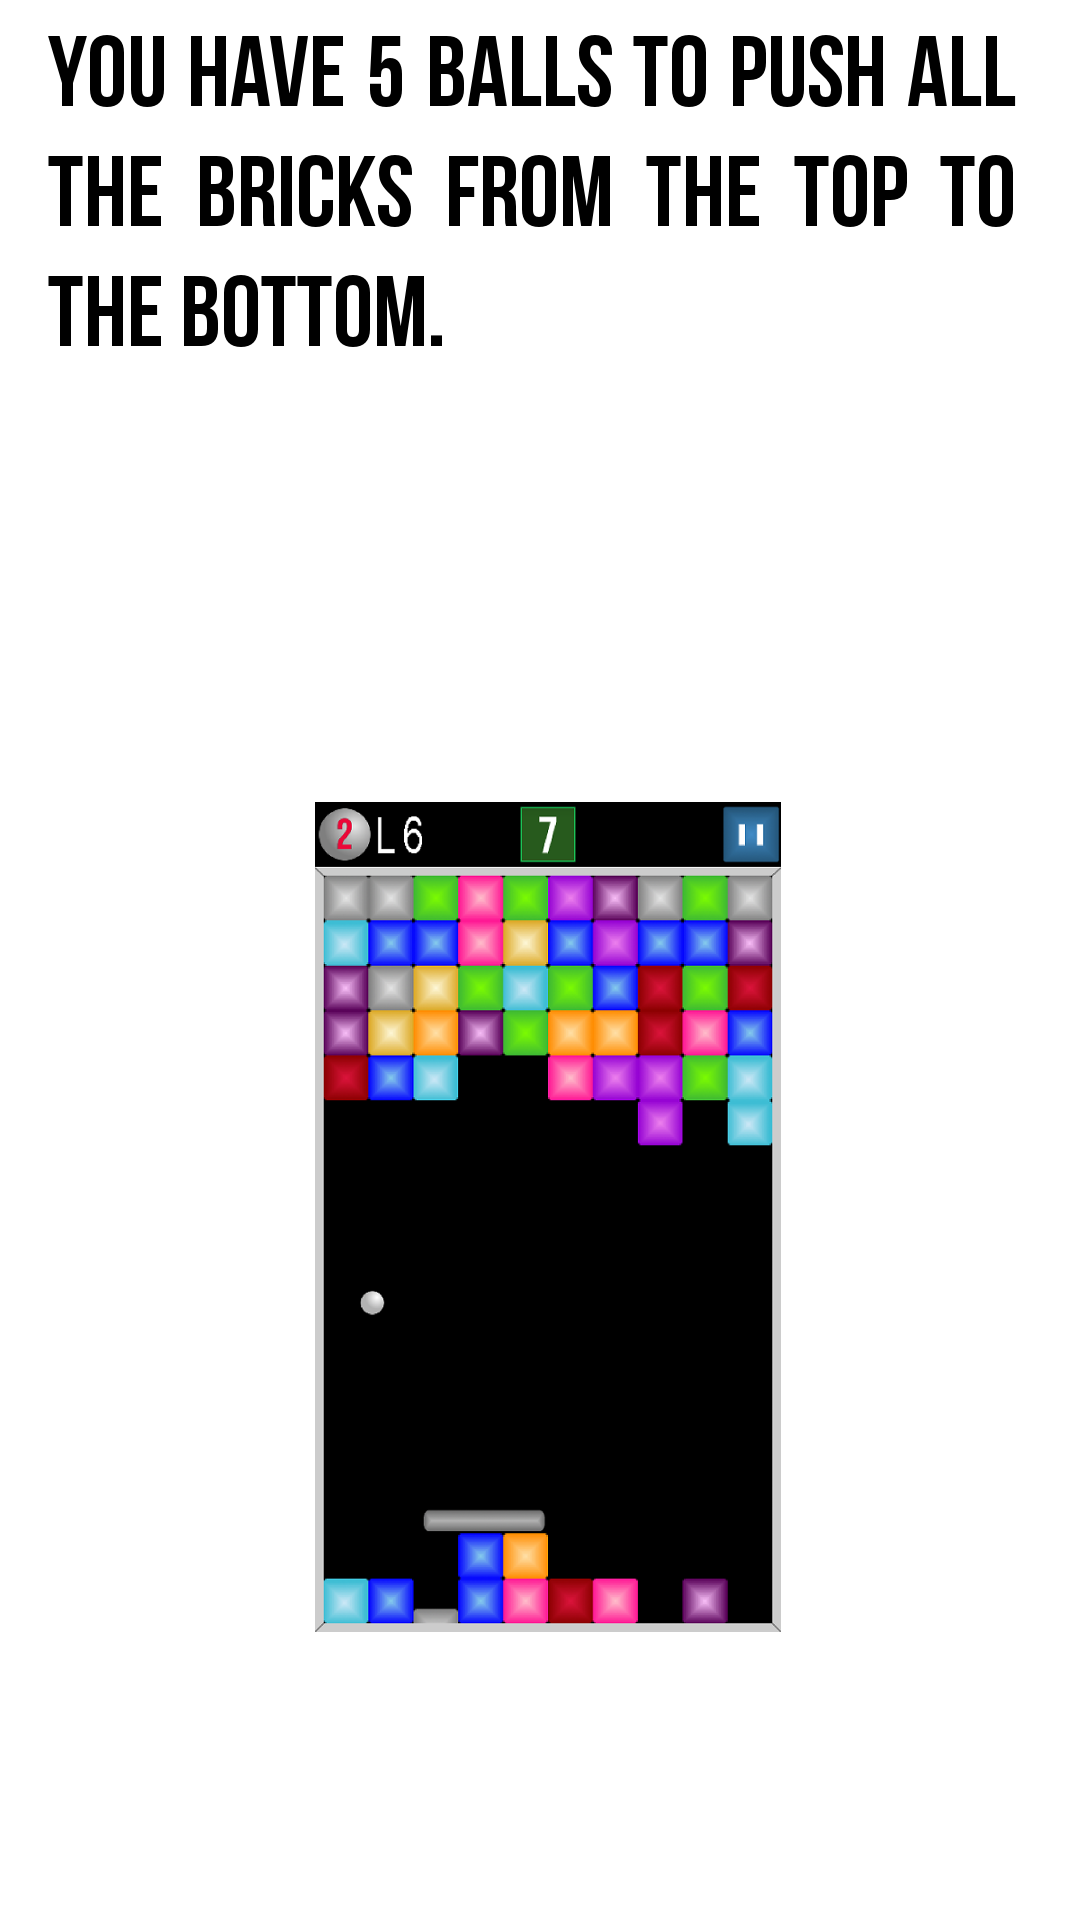
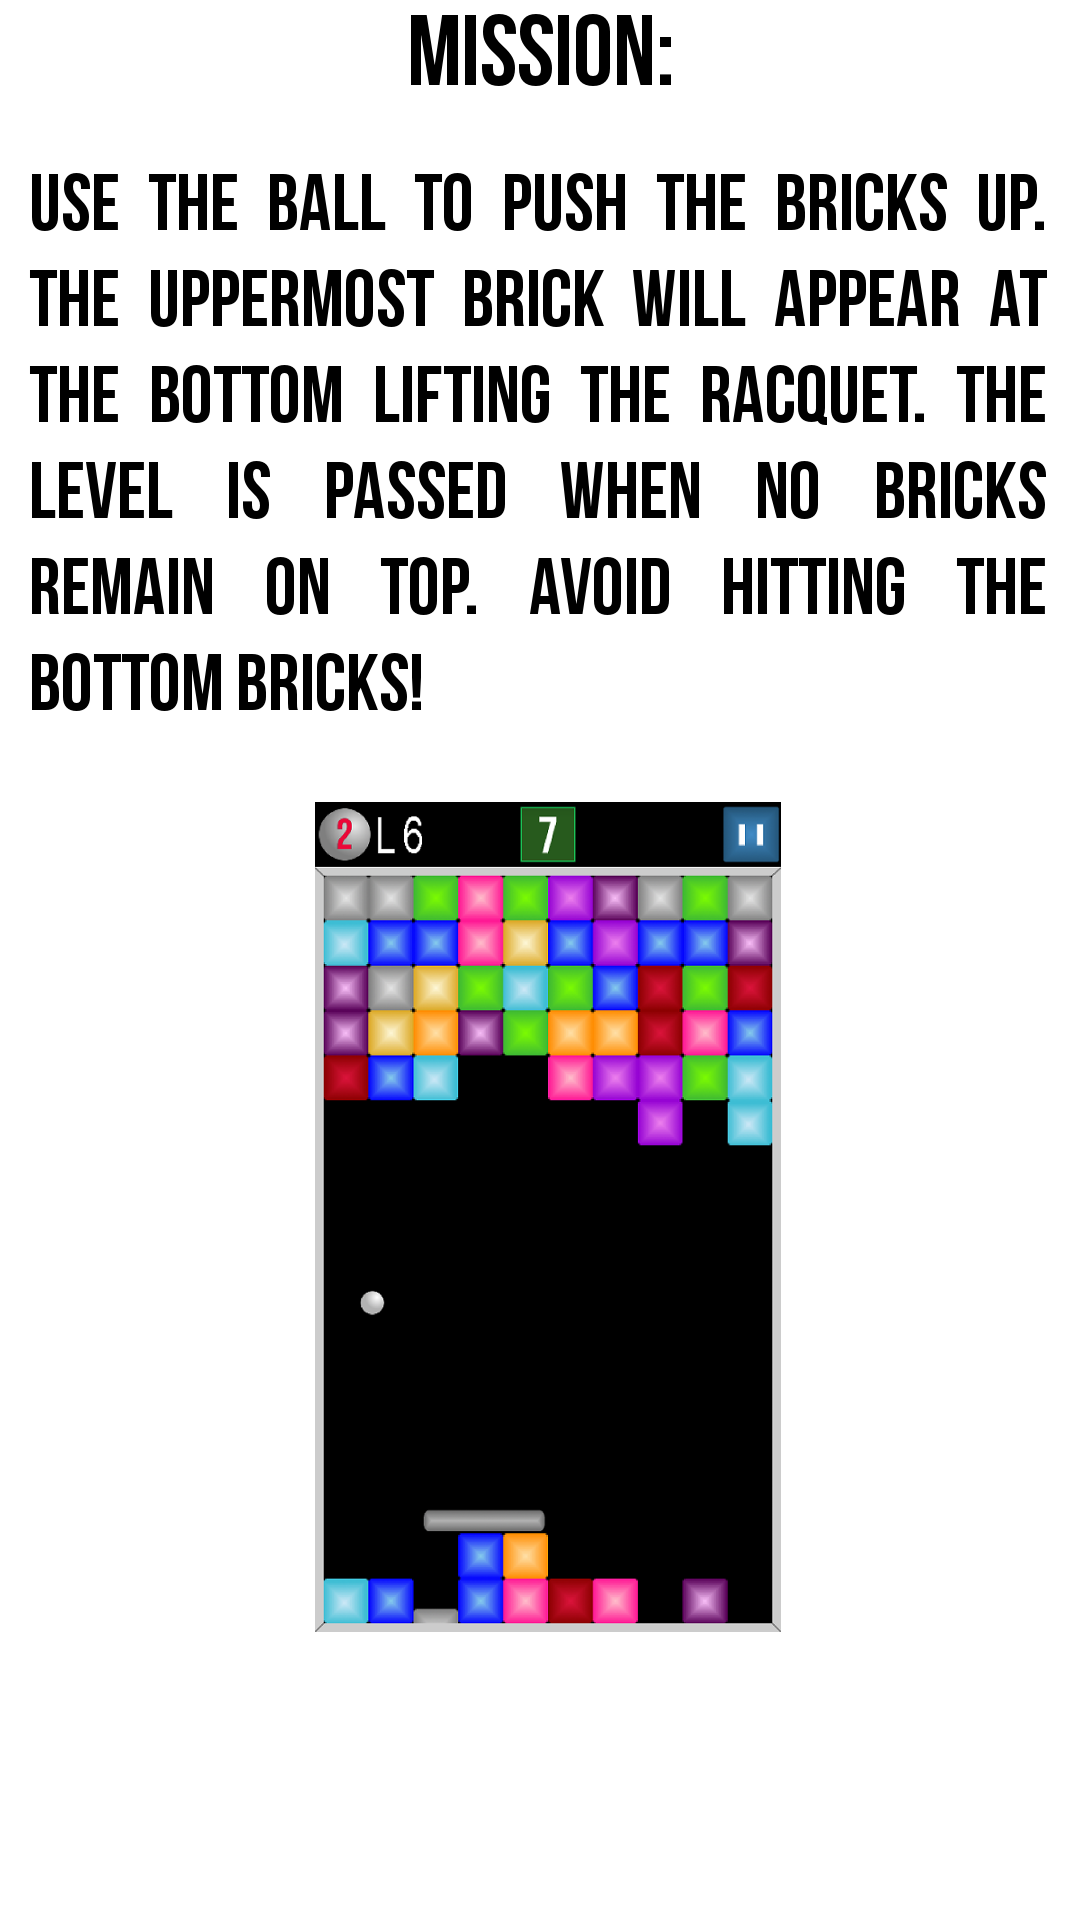
implementing the help screens

Changed region(s): [[0.0306, 0.0, 0.9778, 0.375]]

diff --git a/src/com/mmango/arkshift/HelpScreen.java b/src/com/mmango/arkshift/HelpScreen.java
@@ -27,7 +27,7 @@ public class HelpScreen extends GLScreen {
 	
 	static final int SHOWING_SCREEN1 = 0;
 	static final int SHOWING_SCREEN2 = 1;
-	//int SHOWING_SCREEN3 = 3;
+	static final int SHOWING_SCREEN3 = 2;
 	int state;
 
 	public HelpScreen(Game game) {
@@ -63,7 +63,7 @@ public class HelpScreen extends GLScreen {
 					return;
 				} else  {
 					state++;
-					if (state > SHOWING_SCREEN2)
+					if (state > SHOWING_SCREEN3)
 						state = SHOWING_SCREEN1;
 					return;
 				}
@@ -95,6 +95,9 @@ public class HelpScreen extends GLScreen {
 		case SHOWING_SCREEN2:
 			presentHelpScreen2(deltaTime);
 			break;
+		case SHOWING_SCREEN3:
+			presentHelpScreen3(deltaTime);
+			break;
 		}
 
 		batcher.beginBatch(Assets.UIGameElements);
@@ -116,6 +119,12 @@ public class HelpScreen extends GLScreen {
 	public void presentHelpScreen2(float deltaTime) {
 		batcher.beginBatch(Assets.helpScreen2);
 		batcher.drawSprite(RESOLUTION_X / 2, RESOLUTION_Y / 2, RESOLUTION_X, RESOLUTION_Y, Assets.helpScreen2Region);
+		batcher.endBatch();
+	}
+	
+	public void presentHelpScreen3(float deltaTime) {
+		batcher.beginBatch(Assets.helpScreen3);
+		batcher.drawSprite(RESOLUTION_X / 2, RESOLUTION_Y / 2, RESOLUTION_X, RESOLUTION_Y, Assets.helpScreen3Region);
 		batcher.endBatch();
 	}
 	

diff --git a/src/com/mmango/arkshift/Assets.java b/src/com/mmango/arkshift/Assets.java
@@ -110,6 +110,8 @@ public class Assets {
 	public static TextureRegion helpScreen1Region;
 	public static Texture helpScreen2;
 	public static TextureRegion helpScreen2Region;
+	public static Texture helpScreen3;
+	public static TextureRegion helpScreen3Region;	
 	//public static Music music;
 	public static Sound clickSound;
 	public static Sound racquetHitSound;
@@ -211,6 +213,8 @@ public class Assets {
 		helpScreen1Region = new TextureRegion(helpScreen1, 0, 0, 1080, 1920);
 		helpScreen2 = new Texture(game, "helpScreen2.png");
 		helpScreen2Region = new TextureRegion(helpScreen2, 0, 0, 1080, 1920);
+		helpScreen3 = new Texture(game, "helpScreen3.png");
+		helpScreen3Region = new TextureRegion(helpScreen3, 0, 0, 1080, 1920);
 		
 		gameScreenBackground = new Texture(game, "background_with_transp_gamefield_1.png");
 		gameScreenBackgroundRegion = new TextureRegion(gameScreenBackground, 0,
@@ -238,6 +242,7 @@ public class Assets {
 		UIGameElements.reload();
 		helpScreen1.reload();
 		helpScreen2.reload();
+		helpScreen3.reload();
 		//highscoresScreenBackground.reload();
 		//gameFieldGreen.reload();
 		//selectLevelScreenElements.reload();
